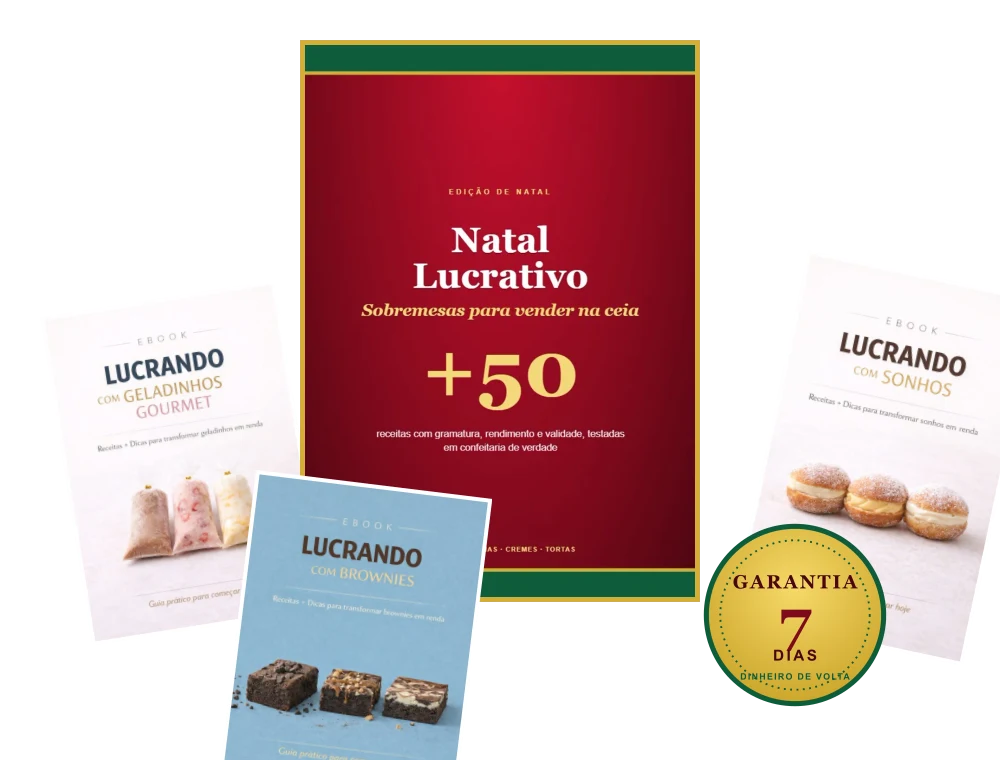
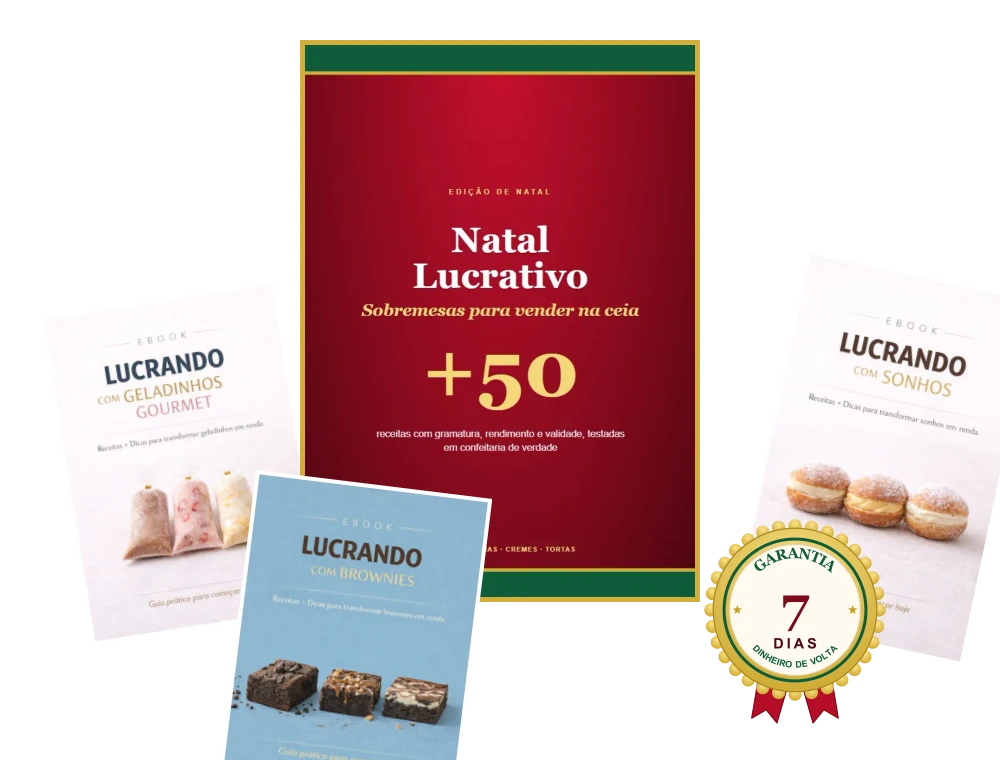
Novo selo de garantia (roseta dourada com fitas) e mockup atualizado

Changed region(s): [[0.682, 0.6658, 0.899, 0.9684]]

diff --git a/index.html b/index.html
@@ -144,7 +144,7 @@
 <section class="sec">
   <div class="wrap narrow">
     <div class="guarantee">
-      <img src="assets/selo-garantia.svg" alt="Selo de garantia de 7 dias" width="150" height="150" loading="lazy">
+      <img src="assets/selo-garantia.svg" alt="Selo de garantia de 7 dias" width="150" height="169" loading="lazy">
       <div>
         <h2 class="left">Garantia incondicional de 7 dias</h2>
         <p>Você tem uma semana inteira para ler o livro e testar as receitas. Se não gostar, é só mandar um e-mail para <b id="email">o nosso suporte</b> e devolvemos 100% do valor, sem perguntas.</p>

diff --git a/style.css b/style.css
@@ -203,3 +203,6 @@ img{height:auto}
 @media(max-width:820px){.calc{font-size:14.5px;padding:10px 12px;display:block}.hero .fine{font-size:12px}}
 
 .sub .gold{color:var(--gold-l);font-weight:800;font-size:1.12em;white-space:nowrap}
+
+.guarantee>img{width:165px}
+@media(max-width:820px){.guarantee>img{width:150px}}
